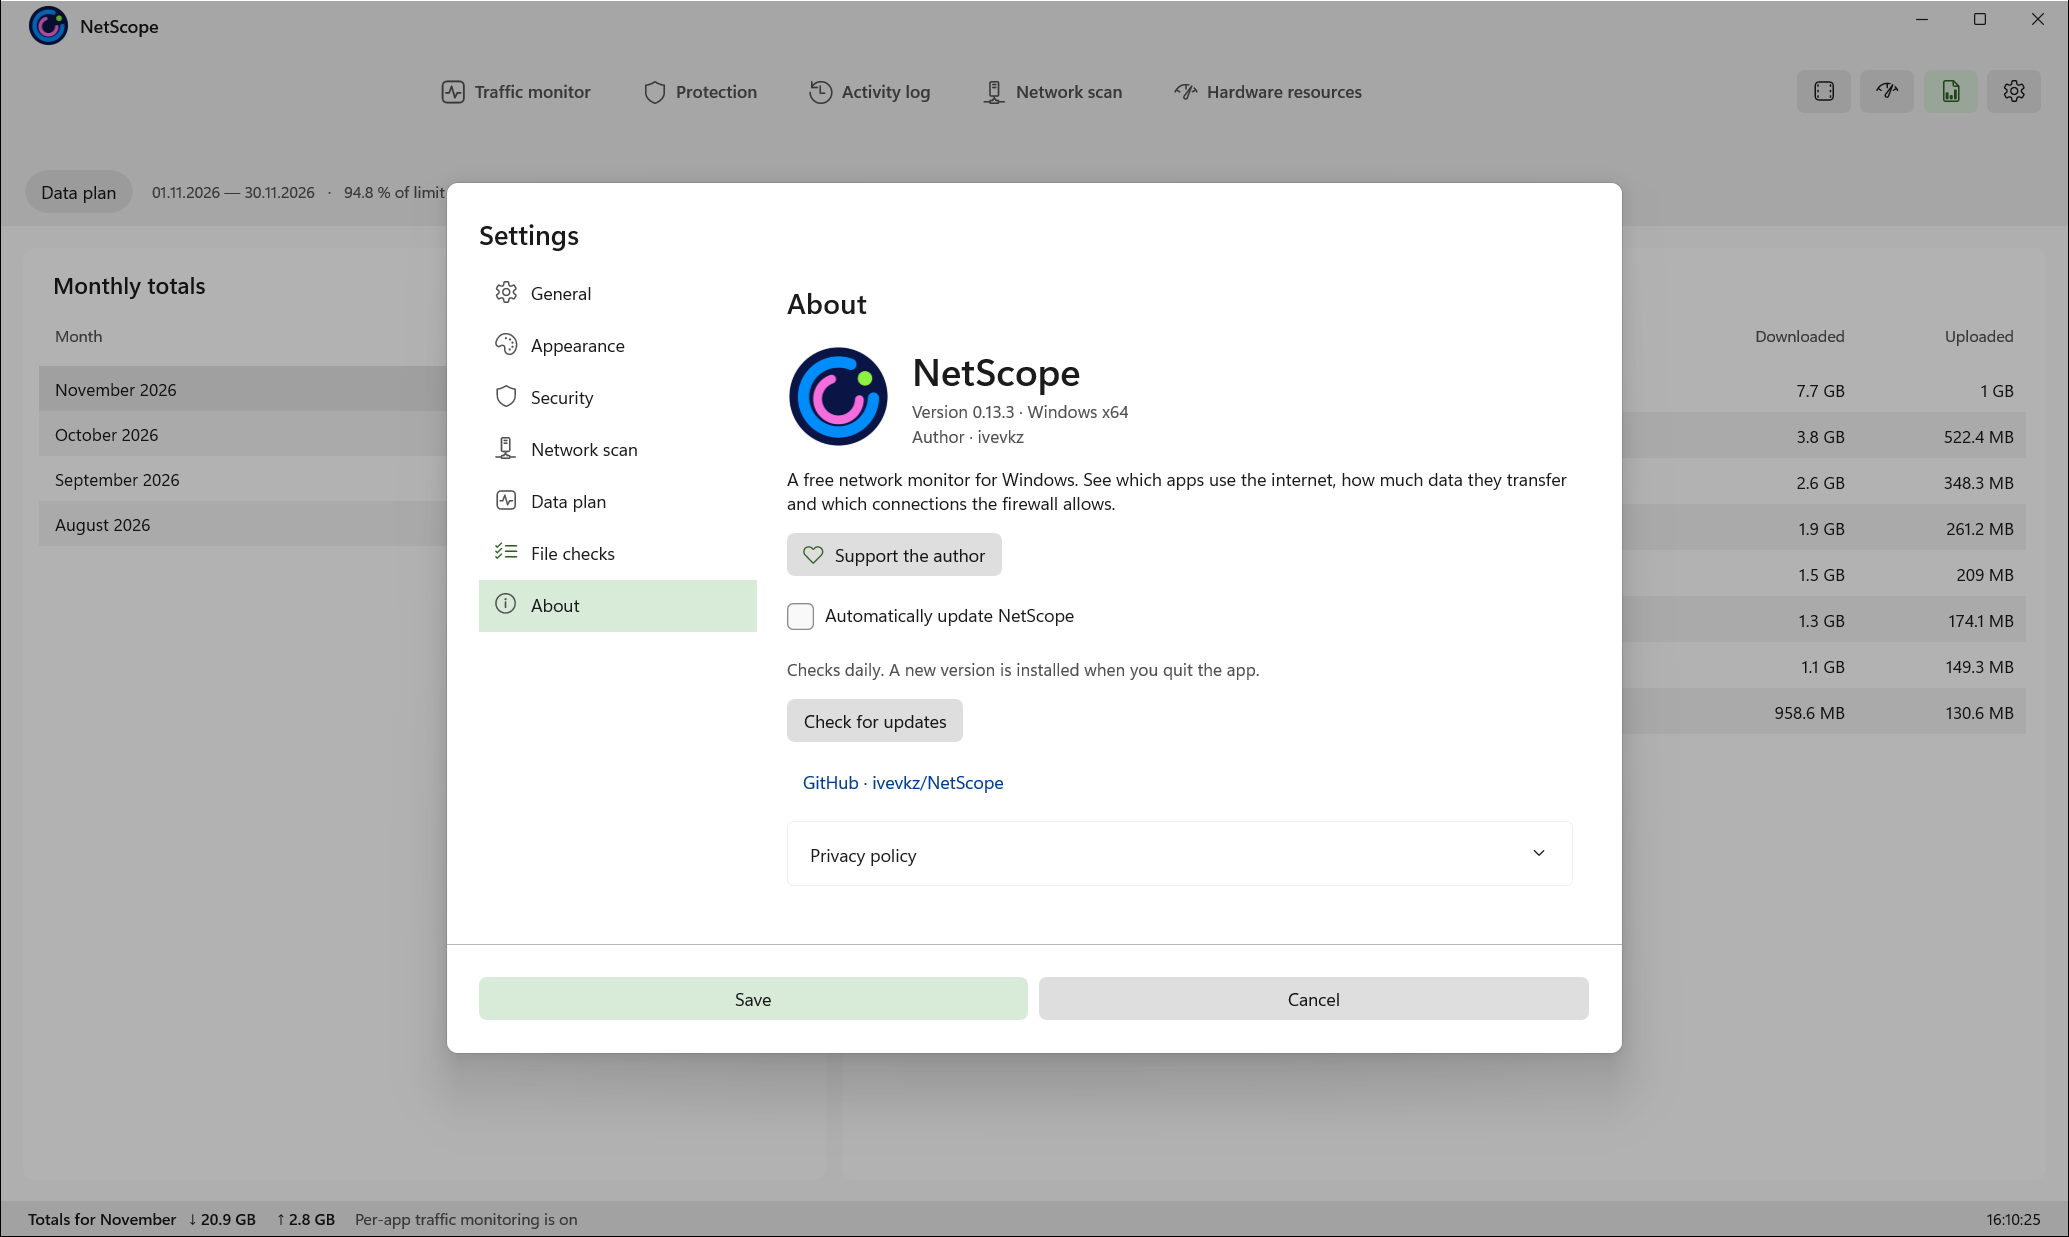
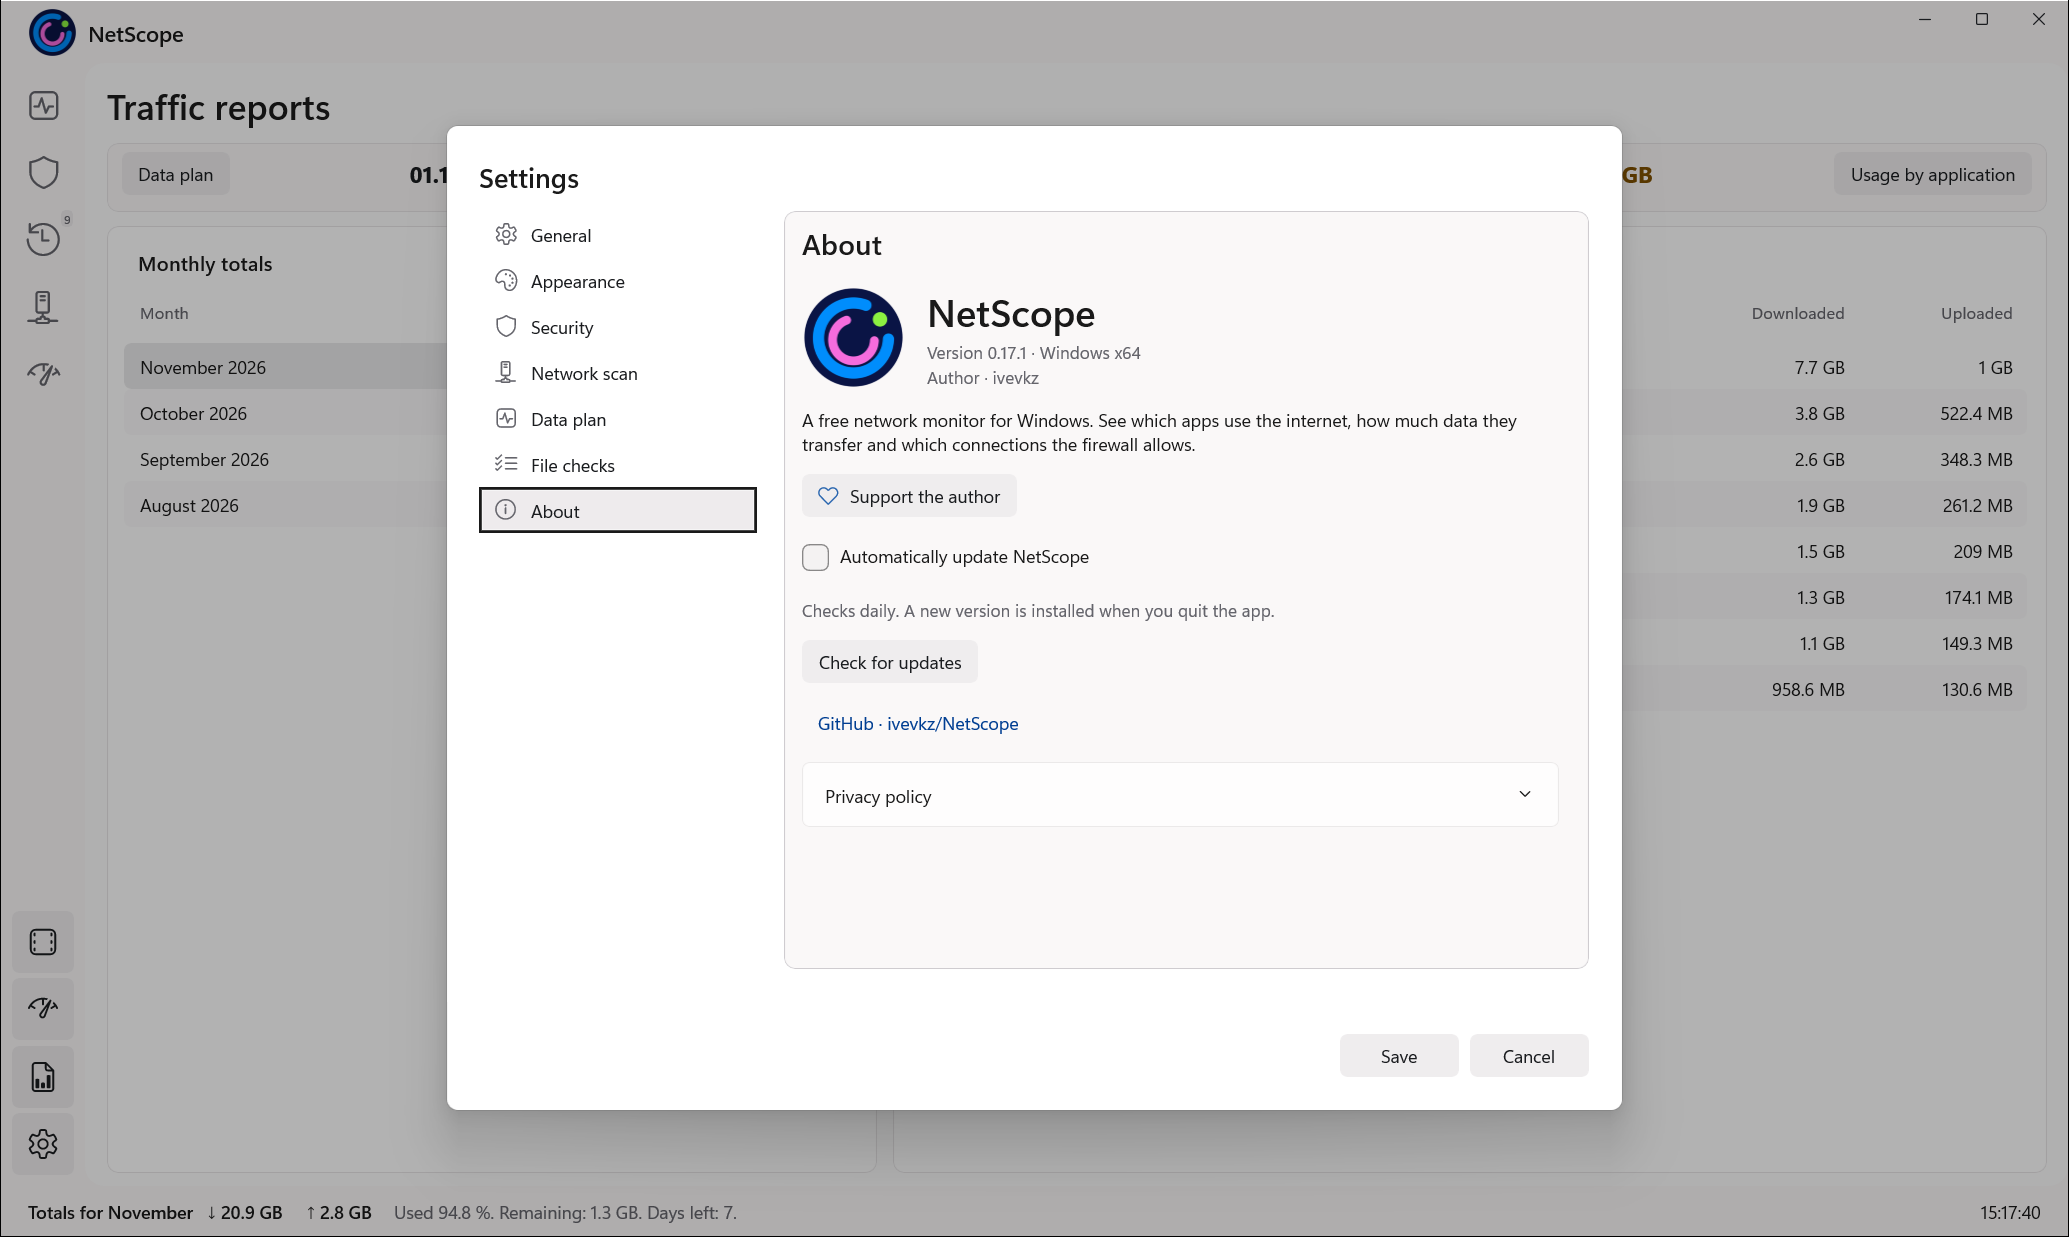
Refresh the NetScope 0.17.1 screenshots and show tray notifications

diff --git a/README.md b/README.md
@@ -13,7 +13,7 @@
 **Автор** · [ivevkz](https://github.com/ivevkz)  
 **Конфиденциальность** · [Русский](PRIVACY.md) · [English](PRIVACY.en.md)
 
-[Скриншоты английской версии](#screenshots)
+[Скриншоты NetScope](#screenshots)
 
 ## English
 
@@ -25,7 +25,7 @@ Version 0.15.0 adds expiring block rules, confirmed block transfers for signed u
 
 ## Screenshots
 
-Captured in the English interface using demo traffic and application data.
+Screenshots from NetScope 0.17.1. The main window uses the English interface and demo traffic. The tray notification was captured in Russian during a local connection test.
 
 ### Traffic monitor
 
@@ -42,3 +42,7 @@ Captured in the English interface using demo traffic and application data.
 ### About
 
 ![About page with the author, donation button, update controls and privacy policy](screenshots/about.png)
+
+### Tray notification
+
+![First connection notification shown while NetScope is in the tray](screenshots/tray-notification.png)
